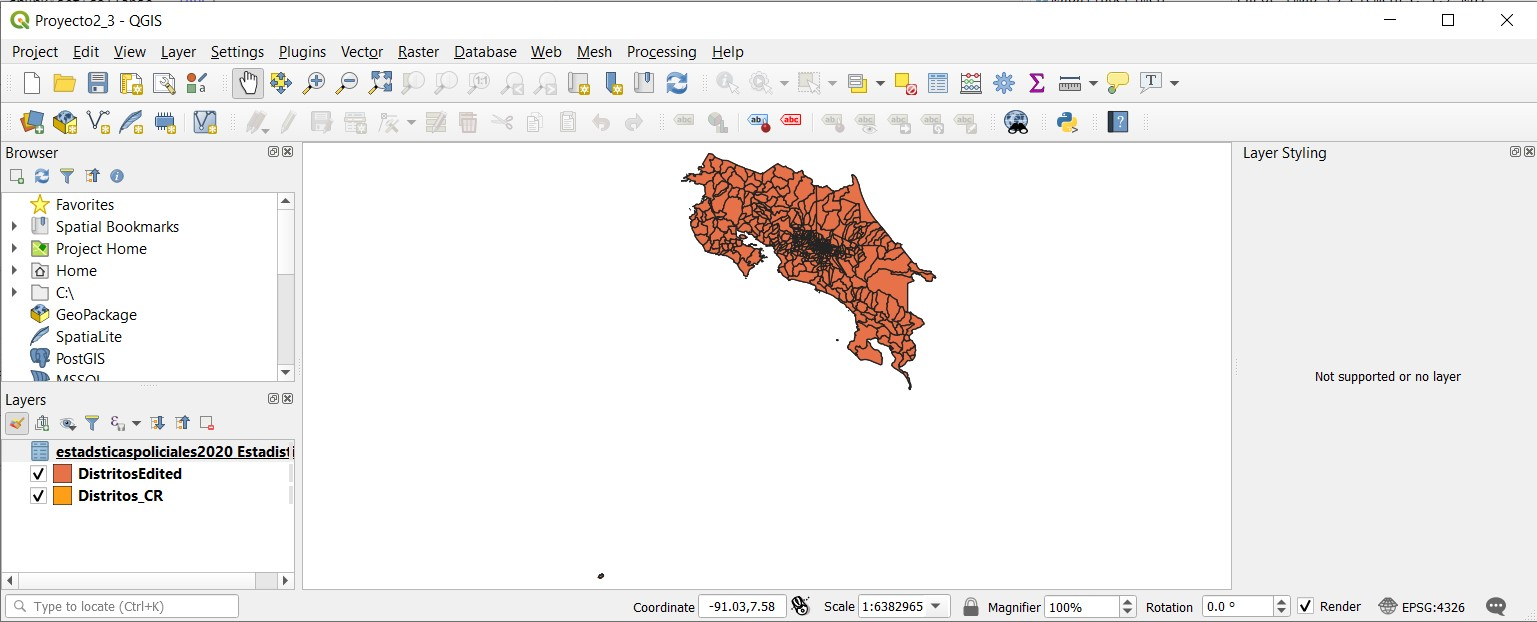
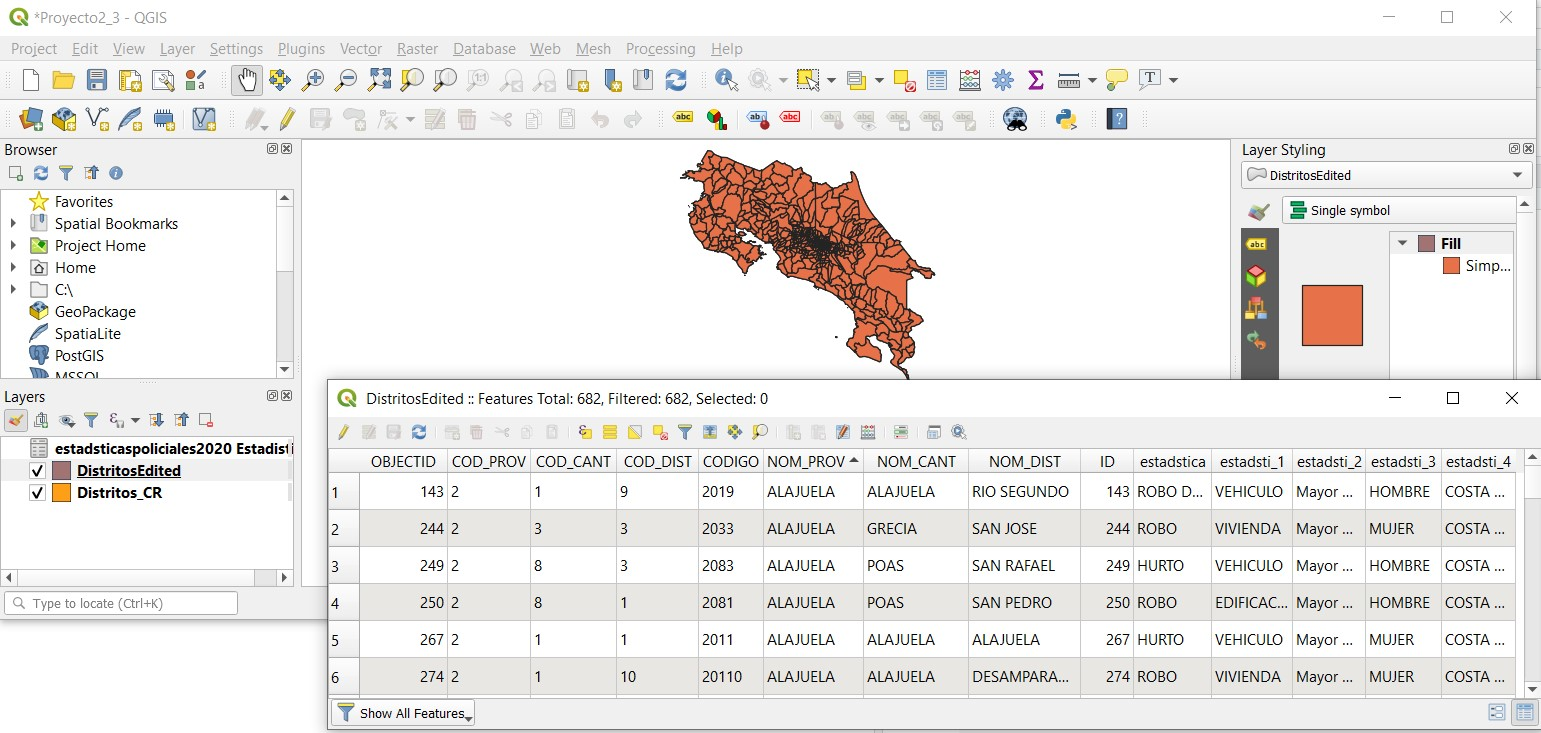
Proyecto2 Parte1

Changed region(s): [[0.0, 0.0, 1.0, 1.0], [0.0, 0.9164, 0.1561, 1.0], [0.1561, 0.3055, 0.1874, 0.336]]

diff --git a/content/post/2020-12-01-r-rmarkdown/index.html b/content/post/2020-12-01-r-rmarkdown/index.html
@@ -8,10 +8,11 @@ tags: []
 
 
 
-<div id="r-markdown" class="section level1">
-<h1>R Markdown</h1>
-<p>This is an R Markdown document. Markdown is a simple formatting syntax for authoring HTML, PDF, and MS Word documents. For more details on using R Markdown see <a href="http://rmarkdown.rstudio.com" class="uri">http://rmarkdown.rstudio.com</a>.</p>
-<p>You can embed an R code chunk like this:</p>
+<div id="gsig" class="section level1">
+<h1>GSIG</h1>
+<p>El primer paso para visualizar estos mapas, fue editar el archivo shapefile, con la aplicación QGIS, de la sigiuente forma:</p>
+<p><img src="https://github.com/ChesGuev99/SIGBackUp/blob/main/Images/QSIGLayers.jpg?raw=true" alt="Imagen del las capas" /><br />
+</p>
 <pre class="r"><code>summary(cars)
 ##      speed           dist       
 ##  Min.   : 4.0   Min.   :  2.00  
